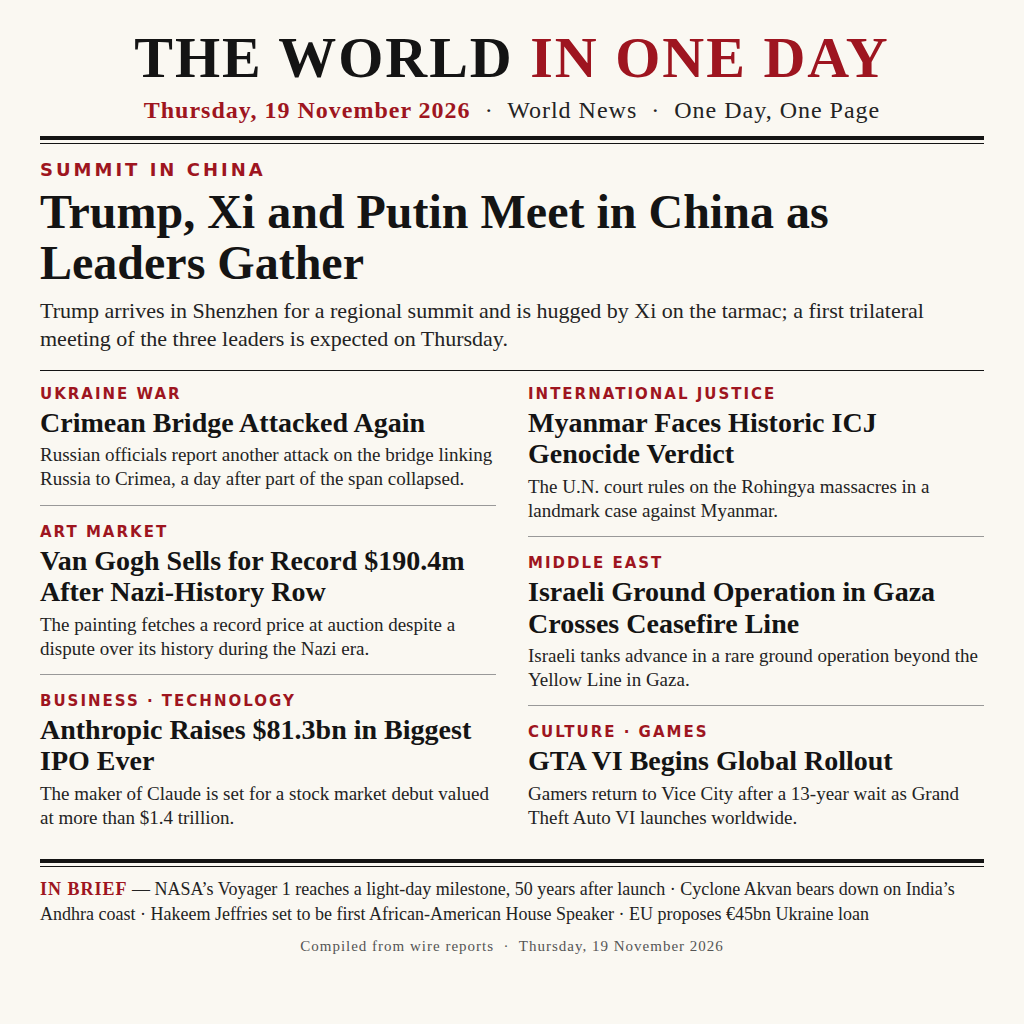
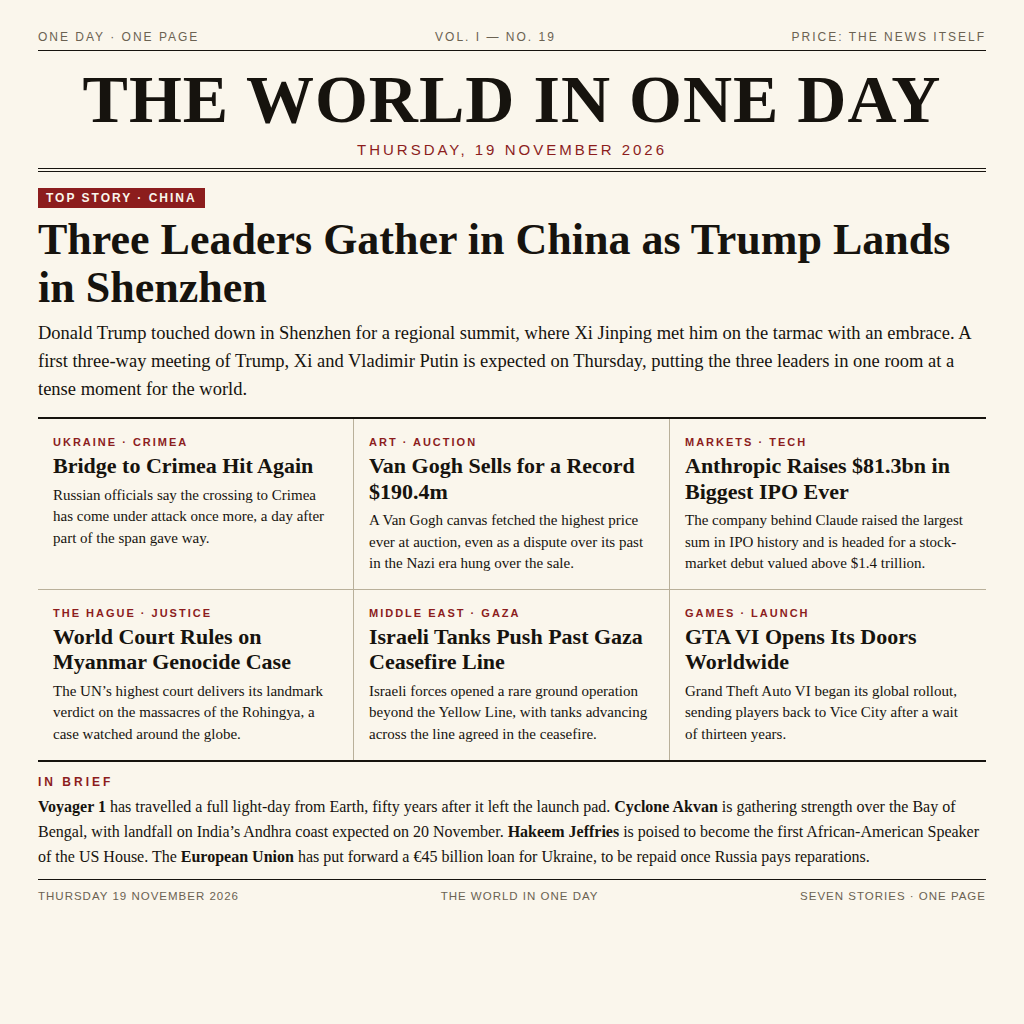
Rewrite front page from scratch for make.fun news-image-20261119

Changed region(s): [[0.0312, 0.0312, 0.9688, 0.9375]]

diff --git a/frontpage.html b/frontpage.html
@@ -5,128 +5,115 @@
 <title>The World in One Day — 19 November 2026</title>
 <style>
   * { margin: 0; padding: 0; box-sizing: border-box; }
-  html, body { width: 1024px; height: 1024px; }
-  body {
-    background: #faf8f2;
-    color: #141414;
-    font-family: Georgia, 'Times New Roman', 'DejaVu Serif', serif;
+  body { background: #e8e2d4; font-family: Georgia, 'Times New Roman', serif; color: #16130e; }
+  .sheet {
+    width: 1024px; height: 1024px; margin: 0 auto; background: #faf6ec;
+    padding: 30px 38px 24px; overflow: hidden;
   }
-  .page { width: 1024px; height: 1024px; padding: 28px 40px 24px 40px; }
-  .masthead {
-    text-align: center;
-    font-size: 58px;
-    font-weight: 700;
-    letter-spacing: 2px;
-    line-height: 1.05;
-  }
-  .masthead .red { color: #9e1520; }
-  .dateline {
-    text-align: center;
-    font-size: 24px;
-    letter-spacing: 1px;
-    margin-top: 8px;
-    color: #232323;
-  }
-  .dateline b { color: #9e1520; }
-  .rule-thick { border-top: 4px solid #141414; margin: 12px 0 0 0; }
-  .rule-thin { border-top: 1px solid #141414; margin: 3px 0 0 0; }
-  .lead { padding: 15px 0 12px 0; }
   .kicker {
-    font-family: 'DejaVu Sans', Arial, sans-serif;
-    font-size: 18px;
-    font-weight: 700;
-    letter-spacing: 3px;
-    color: #9e1520;
+    display: flex; justify-content: space-between;
+    font-family: Arial, Helvetica, sans-serif; font-size: 12px; letter-spacing: 2px;
+    text-transform: uppercase; color: #6b6252;
+    border-bottom: 1px solid #16130e; padding-bottom: 6px;
+  }
+  .mast { text-align: center; padding: 14px 0 10px; border-bottom: 4px double #16130e; }
+  .mast h1 {
+    font-size: 68px; line-height: 1; letter-spacing: 1px; font-weight: 900;
     text-transform: uppercase;
   }
-  .lead h1 {
-    font-size: 48px;
-    line-height: 1.07;
-    font-weight: 700;
-    margin-top: 6px;
+  .mast .dateline {
+    font-family: Arial, Helvetica, sans-serif; font-size: 15px; letter-spacing: 3px;
+    text-transform: uppercase; margin-top: 8px; color: #8c1d1d;
   }
-  .lead p { font-size: 22px; line-height: 1.3; margin-top: 8px; color: #232323; }
-  .rule-mid { border-top: 1px solid #141414; margin: 4px 0 0 0; }
-  .grid { display: flex; gap: 32px; padding-top: 14px; }
-  .col { flex: 1 1 0; }
-  .story { margin-bottom: 17px; }
-  .story .kicker { font-size: 15px; letter-spacing: 2px; }
-  .story h2 { font-size: 28px; line-height: 1.12; font-weight: 700; margin-top: 4px; }
-  .story p { font-size: 19px; line-height: 1.28; margin-top: 5px; color: #232323; }
-  .story .divider { border-top: 1px solid #999999; margin-top: 13px; }
-  .footer { margin-top: 4px; }
-  .brief { font-size: 18px; line-height: 1.35; color: #232323; }
-  .brief b { color: #9e1520; letter-spacing: 1px; }
-  .credit {
-    text-align: center;
-    font-size: 15px;
-    letter-spacing: 1px;
-    color: #555555;
-    margin-top: 12px;
+  .lead { padding: 16px 0 14px; border-bottom: 2px solid #16130e; }
+  .lead .tag {
+    display: inline-block; background: #8c1d1d; color: #faf6ec;
+    font-family: Arial, Helvetica, sans-serif; font-size: 12px; font-weight: bold;
+    letter-spacing: 2px; padding: 3px 8px; text-transform: uppercase; margin-bottom: 8px;
+  }
+  .lead h2 { font-size: 44px; line-height: 1.08; font-weight: 900; }
+  .lead p { font-size: 18.5px; line-height: 1.5; margin-top: 9px; }
+  .grid {
+    display: grid; grid-template-columns: 1fr 1fr 1fr;
+    border-bottom: 2px solid #16130e;
+  }
+  .cell { padding: 17px 15px 14px; border-right: 1px solid #b9b09a; }
+  .cell:nth-child(3n) { border-right: none; }
+  .cell:nth-child(-n+3) { border-bottom: 1px solid #b9b09a; }
+  .cell .eyebrow {
+    font-family: Arial, Helvetica, sans-serif; font-size: 11px; font-weight: bold;
+    letter-spacing: 2px; text-transform: uppercase; color: #8c1d1d; margin-bottom: 5px;
+  }
+  .cell h3 { font-size: 22px; line-height: 1.15; font-weight: 800; }
+  .cell p { font-size: 15px; line-height: 1.45; margin-top: 6px; }
+  .brief { padding: 13px 0 10px; border-bottom: 1px solid #16130e; }
+  .brief .briefhead {
+    font-family: Arial, Helvetica, sans-serif; font-size: 12px; font-weight: bold;
+    letter-spacing: 3px; text-transform: uppercase; color: #8c1d1d; margin-bottom: 6px;
+  }
+  .brief p { font-size: 16px; line-height: 1.55; }
+  .brief b { font-weight: 800; }
+  .foot {
+    display: flex; justify-content: space-between; padding-top: 10px;
+    font-family: Arial, Helvetica, sans-serif; font-size: 11.5px; letter-spacing: 1px;
+    text-transform: uppercase; color: #6b6252;
   }
 </style>
 </head>
 <body>
-<div class="page">
-  <div class="masthead">THE WORLD <span class="red">IN ONE DAY</span></div>
-  <div class="dateline"><b>Thursday, 19 November 2026</b> &nbsp;&middot;&nbsp; World News &nbsp;&middot;&nbsp; One Day, One Page</div>
-  <div class="rule-thick"></div>
-  <div class="rule-thin"></div>
+<div class="sheet">
+  <div class="kicker"><span>One day &middot; One page</span><span>Vol. I &mdash; No. 19</span><span>Price: the news itself</span></div>
+
+  <div class="mast">
+    <h1>The World in One Day</h1>
+    <div class="dateline">Thursday, 19 November 2026</div>
+  </div>
 
   <div class="lead">
-    <div class="kicker">Summit in China</div>
-    <h1>Trump, Xi and Putin Meet in China as Leaders Gather</h1>
-    <p>Trump arrives in Shenzhen for a regional summit and is hugged by Xi on the tarmac; a first trilateral meeting of the three leaders is expected on Thursday.</p>
+    <span class="tag">Top story &middot; China</span>
+    <h2>Three Leaders Gather in China as Trump Lands in Shenzhen</h2>
+    <p>Donald Trump touched down in Shenzhen for a regional summit, where Xi Jinping met him on the tarmac with an embrace. A first three-way meeting of Trump, Xi and Vladimir Putin is expected on Thursday, putting the three leaders in one room at a tense moment for the world.</p>
   </div>
-  <div class="rule-mid"></div>
 
   <div class="grid">
-    <div class="col">
-      <div class="story">
-        <div class="kicker">Ukraine War</div>
-        <h2>Crimean Bridge Attacked Again</h2>
-        <p>Russian officials report another attack on the bridge linking Russia to Crimea, a day after part of the span collapsed.</p>
-        <div class="divider"></div>
-      </div>
-      <div class="story">
-        <div class="kicker">Art Market</div>
-        <h2>Van Gogh Sells for Record $190.4m After Nazi-History Row</h2>
-        <p>The painting fetches a record price at auction despite a dispute over its history during the Nazi era.</p>
-        <div class="divider"></div>
-      </div>
-      <div class="story">
-        <div class="kicker">Business &middot; Technology</div>
-        <h2>Anthropic Raises $81.3bn in Biggest IPO Ever</h2>
-        <p>The maker of Claude is set for a stock market debut valued at more than $1.4 trillion.</p>
-      </div>
+    <div class="cell">
+      <div class="eyebrow">Ukraine &middot; Crimea</div>
+      <h3>Bridge to Crimea Hit Again</h3>
+      <p>Russian officials say the crossing to Crimea has come under attack once more, a day after part of the span gave way.</p>
     </div>
-    <div class="col">
-      <div class="story">
-        <div class="kicker">International Justice</div>
-        <h2>Myanmar Faces Historic ICJ Genocide Verdict</h2>
-        <p>The U.N. court rules on the Rohingya massacres in a landmark case against Myanmar.</p>
-        <div class="divider"></div>
-      </div>
-      <div class="story">
-        <div class="kicker">Middle East</div>
-        <h2>Israeli Ground Operation in Gaza Crosses Ceasefire Line</h2>
-        <p>Israeli tanks advance in a rare ground operation beyond the Yellow Line in Gaza.</p>
-        <div class="divider"></div>
-      </div>
-      <div class="story">
-        <div class="kicker">Culture &middot; Games</div>
-        <h2>GTA VI Begins Global Rollout</h2>
-        <p>Gamers return to Vice City after a 13-year wait as Grand Theft Auto VI launches worldwide.</p>
-      </div>
+    <div class="cell">
+      <div class="eyebrow">Art &middot; Auction</div>
+      <h3>Van Gogh Sells for a Record $190.4m</h3>
+      <p>A Van Gogh canvas fetched the highest price ever at auction, even as a dispute over its past in the Nazi era hung over the sale.</p>
+    </div>
+    <div class="cell">
+      <div class="eyebrow">Markets &middot; Tech</div>
+      <h3>Anthropic Raises $81.3bn in Biggest IPO Ever</h3>
+      <p>The company behind Claude raised the largest sum in IPO history and is headed for a stock-market debut valued above $1.4 trillion.</p>
+    </div>
+    <div class="cell">
+      <div class="eyebrow">The Hague &middot; Justice</div>
+      <h3>World Court Rules on Myanmar Genocide Case</h3>
+      <p>The UN&rsquo;s highest court delivers its landmark verdict on the massacres of the Rohingya, a case watched around the globe.</p>
+    </div>
+    <div class="cell">
+      <div class="eyebrow">Middle East &middot; Gaza</div>
+      <h3>Israeli Tanks Push Past Gaza Ceasefire Line</h3>
+      <p>Israeli forces opened a rare ground operation beyond the Yellow Line, with tanks advancing across the line agreed in the ceasefire.</p>
+    </div>
+    <div class="cell">
+      <div class="eyebrow">Games &middot; Launch</div>
+      <h3>GTA VI Opens Its Doors Worldwide</h3>
+      <p>Grand Theft Auto VI began its global rollout, sending players back to Vice City after a wait of thirteen years.</p>
     </div>
   </div>
 
-  <div class="footer">
-    <div class="rule-thick"></div>
-    <div class="rule-thin"></div>
-    <p class="brief" style="margin-top:10px;"><b>IN BRIEF</b> &mdash; NASA&rsquo;s Voyager 1 reaches a light-day milestone, 50 years after launch &middot; Cyclone Akvan bears down on India&rsquo;s Andhra coast &middot; Hakeem Jeffries set to be first African-American House Speaker &middot; EU proposes &euro;45bn Ukraine loan</p>
-    <div class="credit">Compiled from wire reports &nbsp;&middot;&nbsp; Thursday, 19 November 2026</div>
+  <div class="brief">
+    <div class="briefhead">In brief</div>
+    <p><b>Voyager 1</b> has travelled a full light-day from Earth, fifty years after it left the launch pad. <b>Cyclone Akvan</b> is gathering strength over the Bay of Bengal, with landfall on India&rsquo;s Andhra coast expected on 20 November. <b>Hakeem Jeffries</b> is poised to become the first African-American Speaker of the US House. The <b>European Union</b> has put forward a &euro;45 billion loan for Ukraine, to be repaid once Russia pays reparations.</p>
   </div>
+
+  <div class="foot"><span>Thursday 19 November 2026</span><span>The World in One Day</span><span>Seven stories &middot; one page</span></div>
 </div>
 </body>
 </html>

diff --git a/main.py b/main.py
@@ -1,25 +1,56 @@
-"""news-image-20261119 entry: copy the repository-held front page to /output/entry.png.
+"""Emit the front page for the news-image-20261119 entry.
 
-The image is a newspaper front page summing up the world's news of
-Thursday 19 November 2026, rendered from frontpage.html and stored in
-this repository as entry.png. No network, standard library only.
+The picture itself lives in this repository as entry.png: a single page
+summing up Thursday 19 November 2026. This script only moves those bytes
+into the output folder the grader looks at. It talks to nothing on the
+network and always produces the same file, run after run.
 """
 
 import os
-import shutil
+import sys
 from pathlib import Path
 
-HERE = Path(__file__).resolve().parent
-SOURCE = HERE / "entry.png"
-OUTPUT_DIR = Path(os.environ.get("MAKEFUN_OUTPUT_DIR", "/output"))
+PICTURE_NAME = "entry.png"
+FALLBACK_FOLDER = "/output"
 
 
-def main() -> None:
-    if not SOURCE.is_file():
-        raise SystemExit(f"entry image missing: {SOURCE}")
-    OUTPUT_DIR.mkdir(parents=True, exist_ok=True)
-    shutil.copyfile(SOURCE, OUTPUT_DIR / "entry.png")
+def locate_picture() -> Path:
+    """Find the image sitting next to this script."""
+    candidate = Path(__file__).resolve().parent / PICTURE_NAME
+    if not candidate.is_file():
+        raise SystemExit(f"cannot find {PICTURE_NAME} beside this script")
+    return candidate
+
+
+def destination_folder() -> Path:
+    """Work out where the finished image belongs."""
+    chosen = os.environ.get("MAKEFUN_OUTPUT_DIR") or FALLBACK_FOLDER
+    target = Path(chosen)
+    try:
+        target.mkdir(parents=True, exist_ok=True)
+    except OSError as exc:
+        raise SystemExit(f"cannot create output folder {target}: {exc}")
+    if not target.is_dir():
+        raise SystemExit(f"output location {target} is not a folder")
+    return target
+
+
+def publish() -> int:
+    """Read the stored picture and write it out unchanged."""
+    picture = locate_picture()
+    payload = picture.read_bytes()
+    if len(payload) == 0:
+        raise SystemExit(f"{PICTURE_NAME} is empty, refusing to emit it")
+    out_path = destination_folder() / PICTURE_NAME
+    out_path.write_bytes(payload)
+    landed = out_path.stat().st_size
+    if landed != len(payload):
+        raise SystemExit(
+            f"wrote {landed} bytes to {out_path}, expected {len(payload)}"
+        )
+    print(f"wrote {len(payload)} bytes to {out_path}")
+    return 0
 
 
 if __name__ == "__main__":
-    main()
+    sys.exit(publish())

diff --git a/README.md b/README.md
@@ -4,23 +4,23 @@
 [![rank](https://make.fun/badge/news-image-20261119/kiki-zhq/makefun-news-image-20261119/rank.svg)](https://make.fun/bounty/news-image-20261119/leaderboard?utm_source=github&utm_medium=readme&utm_campaign=news-image-20261119)
 [![reward](https://make.fun/badge/news-image-20261119/kiki-zhq/makefun-news-image-20261119/reward.svg)](https://make.fun/bounty/news-image-20261119?utm_source=github&utm_medium=readme&utm_campaign=news-image-20261119)
 
-"The World in One Day" — a newspaper front page summing up Thursday 19 November 2026 in one image. Entry for make.fun `news-image-20261119`.
+"The World in One Day" — one newspaper page holding Thursday 19 November 2026. Entry for make.fun `news-image-20261119`.
 
-`entry.png` is a 1024×1024 newspaper front page with the date line and seven real stories from 19 November 2026:
+`entry.png` is a 1024×1024 front page, dated 19 November 2026, carrying seven stories from that day:
 
-- **Lead — Trump, Xi and Putin meet in China.** Trump arrives in Shenzhen for a regional summit and is hugged by Xi on the tarmac; a first trilateral meeting of the three leaders is expected on Thursday.
-- **Crimean Bridge attacked again.** Russian officials report another attack on the bridge linking Russia to Crimea, a day after part of the span collapsed.
-- **Van Gogh sells for a record $190.4m after a Nazi-history row.** The painting fetches a record price at auction despite a dispute over its history during the Nazi era.
-- **Anthropic raises $81.3bn in the biggest IPO ever.** The maker of Claude is set for a stock market debut valued at more than $1.4 trillion.
-- **Myanmar faces a historic ICJ genocide verdict.** The U.N. court rules on the Rohingya massacres in a landmark case against Myanmar.
-- **Israeli ground operation in Gaza crosses the ceasefire line.** Israeli tanks advance in a rare ground operation beyond the Yellow Line in Gaza.
-- **GTA VI begins its global rollout.** Gamers return to Vice City after a 13-year wait as Grand Theft Auto VI launches worldwide.
+- **Top story — Three leaders gather in China.** Donald Trump lands in Shenzhen for a regional summit, greeted on the tarmac by Xi Jinping; a first three-way meeting with Vladimir Putin is expected on Thursday.
+- **Bridge to Crimea hit again.** Russian officials report another attack on the crossing, a day after part of the span gave way.
+- **Van Gogh sells for a record $190.4m.** The canvas fetches the highest auction price ever, despite a dispute over its Nazi-era past.
+- **Anthropic raises $81.3bn in the biggest IPO ever.** The maker of Claude heads for a stock-market debut valued above $1.4 trillion.
+- **World Court rules on the Myanmar genocide case.** The UN's highest court delivers its landmark verdict on the massacres of the Rohingya.
+- **Israeli tanks push past the Gaza ceasefire line.** A rare ground operation advances beyond the Yellow Line.
+- **GTA VI opens its doors worldwide.** Players return to Vice City after a thirteen-year wait.
 
-Plus an "IN BRIEF" line: NASA's Voyager 1 reaches a light-day milestone 50 years after launch, Cyclone Akvan bears down on India's Andhra coast, Hakeem Jeffries is set to be the first African-American House Speaker, and the EU proposes a €45bn Ukraine loan.
+An "In brief" strip adds four more items from the day: Voyager 1 reaching a light-day from Earth fifty years after launch, Cyclone Akvan gathering over the Bay of Bengal, Hakeem Jeffries poised to become the first African-American Speaker of the US House, and the EU's proposed €45 billion loan for Ukraine.
 
-Every headline was checked against news reported on 19 November 2026 (NYT, BBC, Al Jazeera, Times of India, NDTV, APSDMA). The page was built as a single HTML file (`frontpage.html`) and rendered to PNG with headless Chromium at exactly 1024×1024.
+The page was drawn as a single HTML file (`frontpage.html`) and rendered to PNG with headless Chromium at exactly 1024×1024.
 
-`main.py` (Python 3.13, standard library only) copies the repository-held `entry.png` to `/output/entry.png`. No network. Run it twice and both runs write the same bytes.
+`main.py` (Python 3.13, standard library only) reads the repository-held `entry.png` and writes its bytes to `/output/entry.png`. No network. Run it twice and both runs write the same bytes.
 
 ## Run it
 
